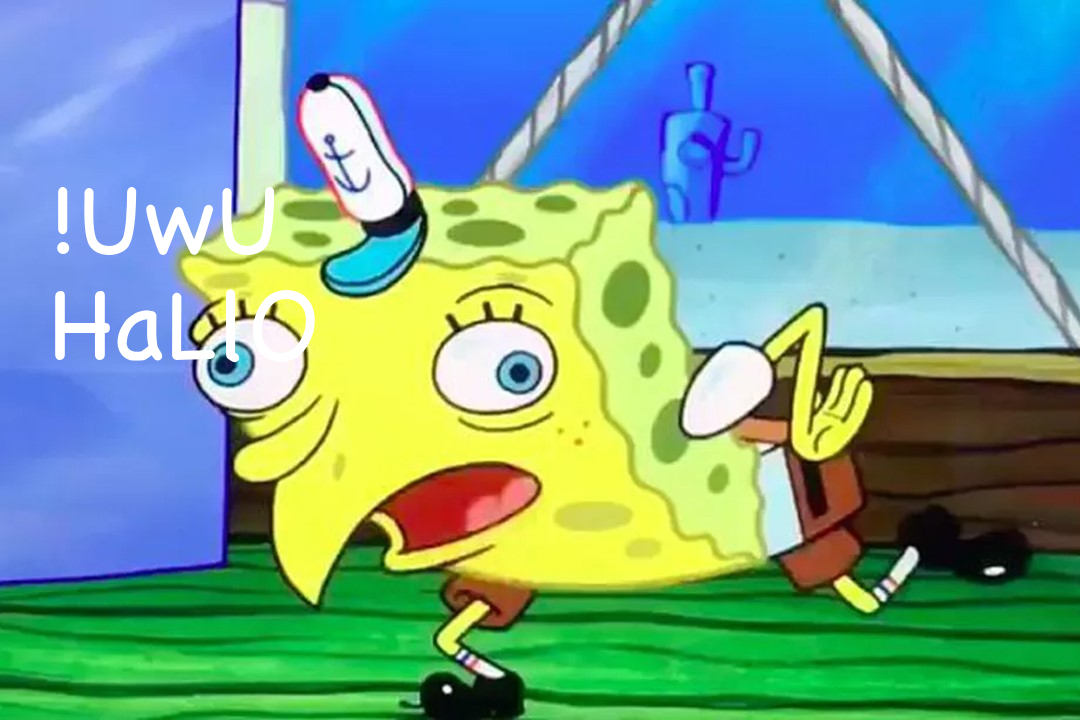
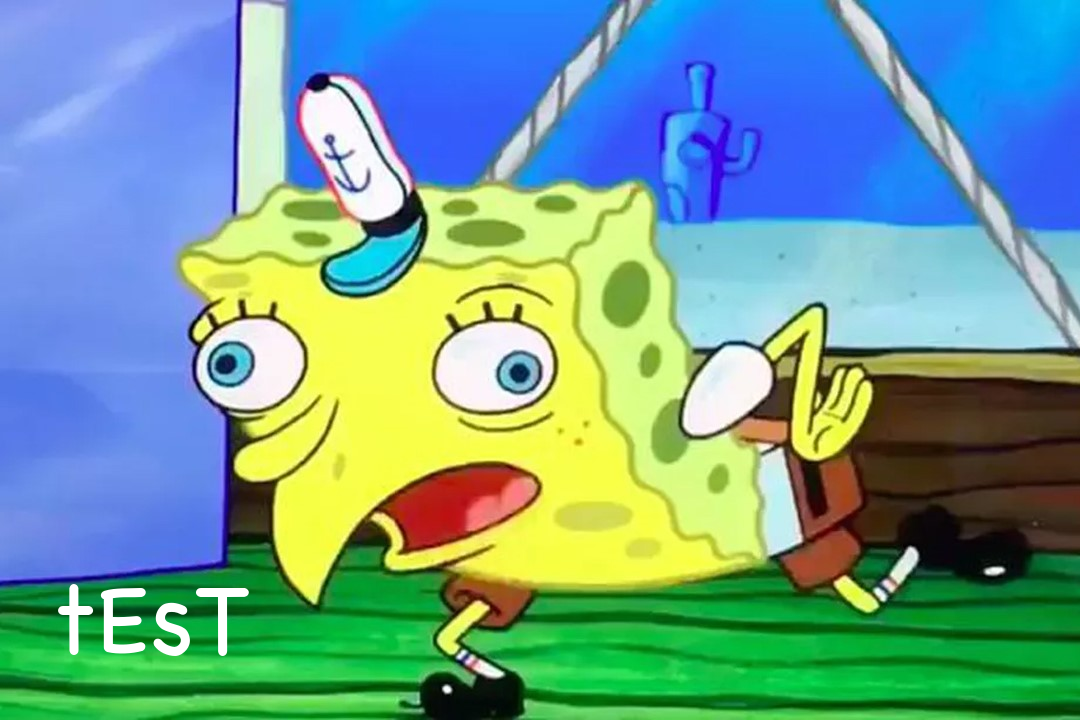
merge conflict fix

Changed region(s): [[0.0306, 0.3972, 0.3056, 0.5194], [0.0306, 0.2444, 0.275, 0.3667], [0.0611, 0.7944, 0.2444, 0.9167]]

diff --git a/src/inspireMe.py b/src/inspireMe.py
@@ -76,7 +76,7 @@ def add_autism(str):
     d = ImageDraw.Draw(out)
 
     # draw multiline text
-    d.multiline_text((50,550),wrap_text(autism_text(str),20,fnt) , font=fnt, fill=(255, 255, 255))
+    d.multiline_text((50,450),wrap_text(autism_text(str),20,fnt) , font=fnt, fill=(255, 255, 255))
 
     out.save("src/data/autism.png","png")
 
@@ -89,8 +89,8 @@ async def getImage(message):
         # create an image
         out = Image.new("RGB", (700, 500), (255, 10, 70))
         # get a font
-        fnt1 = ImageFont.truetype("data/Chalkboard.ttc", 20)
-        fnt2 = ImageFont.truetype("data/Zapfino.ttf", 20)
+        fnt1 = ImageFont.truetype("src/data/Chalkboard.ttc", 20)
+        fnt2 = ImageFont.truetype("src/data/Zapfino.ttf", 20)
         # get a drawing context
         d = ImageDraw.Draw(out)
 
@@ -98,8 +98,8 @@ async def getImage(message):
         d.multiline_text((10,10), "Ein {0} sagte eins:".format(message.author.name), font=fnt1, fill=(0, 0, 0))
         d.multiline_text((10,50), wrap_text(args[2],600,fnt2), font=fnt2, fill=(0, 0, 0))
         
-        out.save("data/img.png","png")
-        with open('data/img.png', 'rb') as f:
+        out.save("src/data/img.png","png")
+        with open('src/data/img.png', 'rb') as f:
             picture = File(f)
             await message.guild.get_member_named(args[1]).send(file=picture)
         await message.add_reaction("\U00002705")
